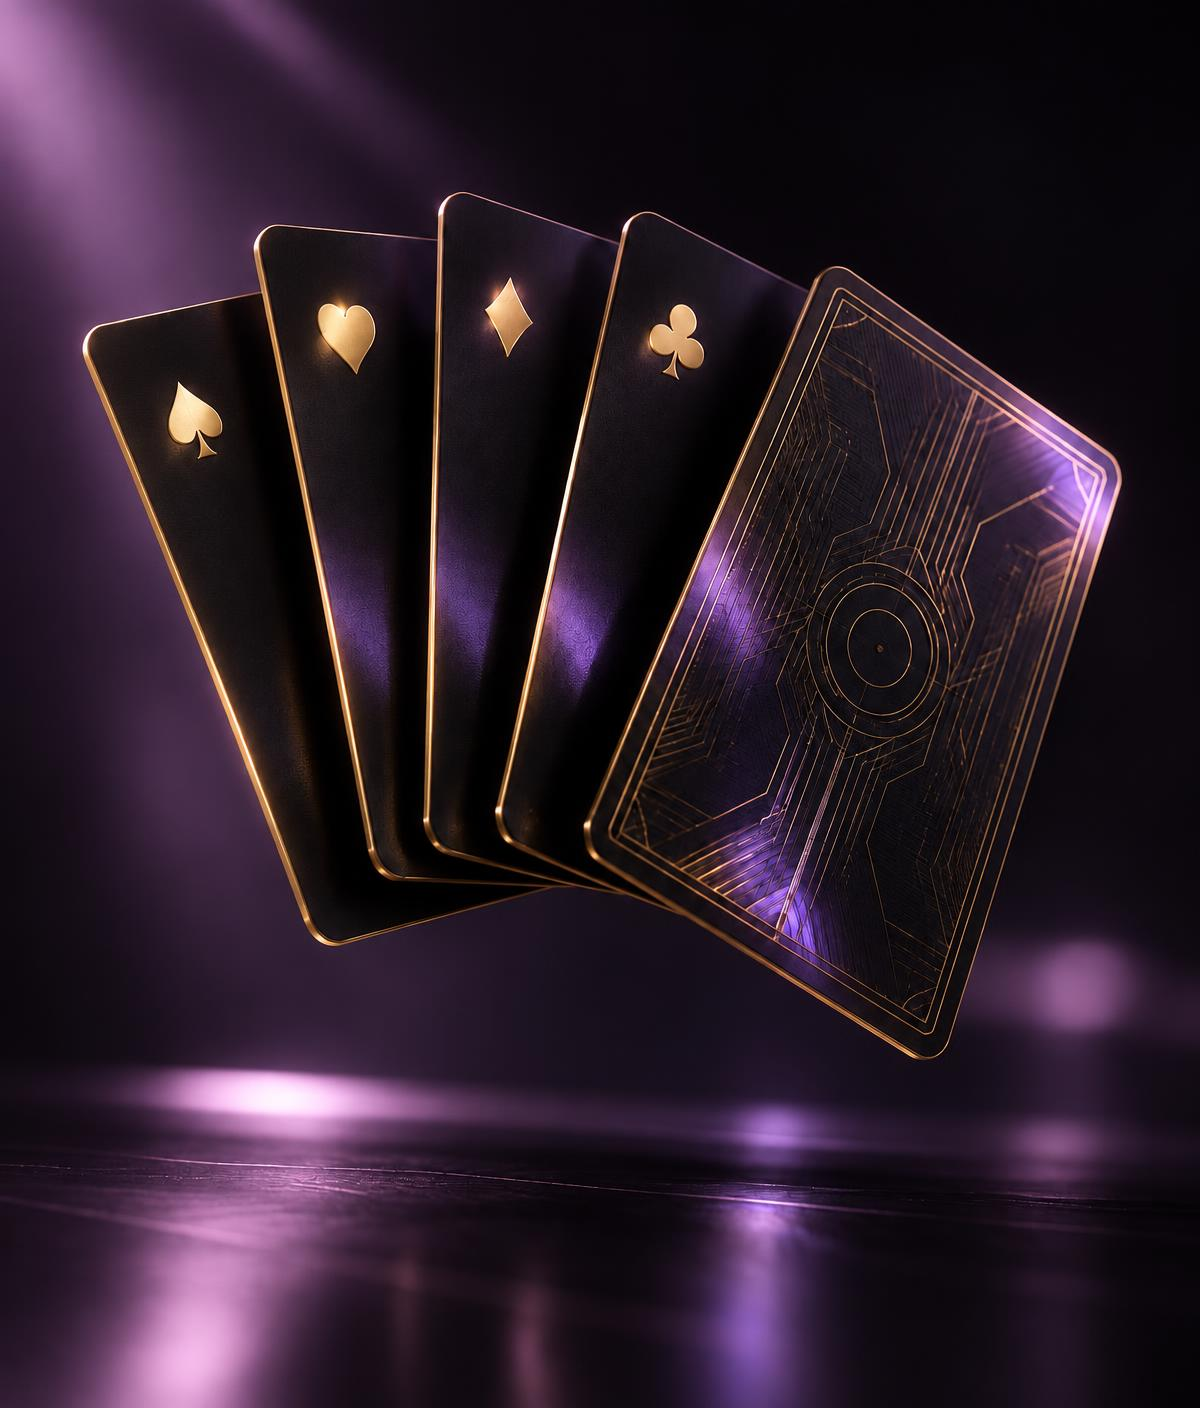
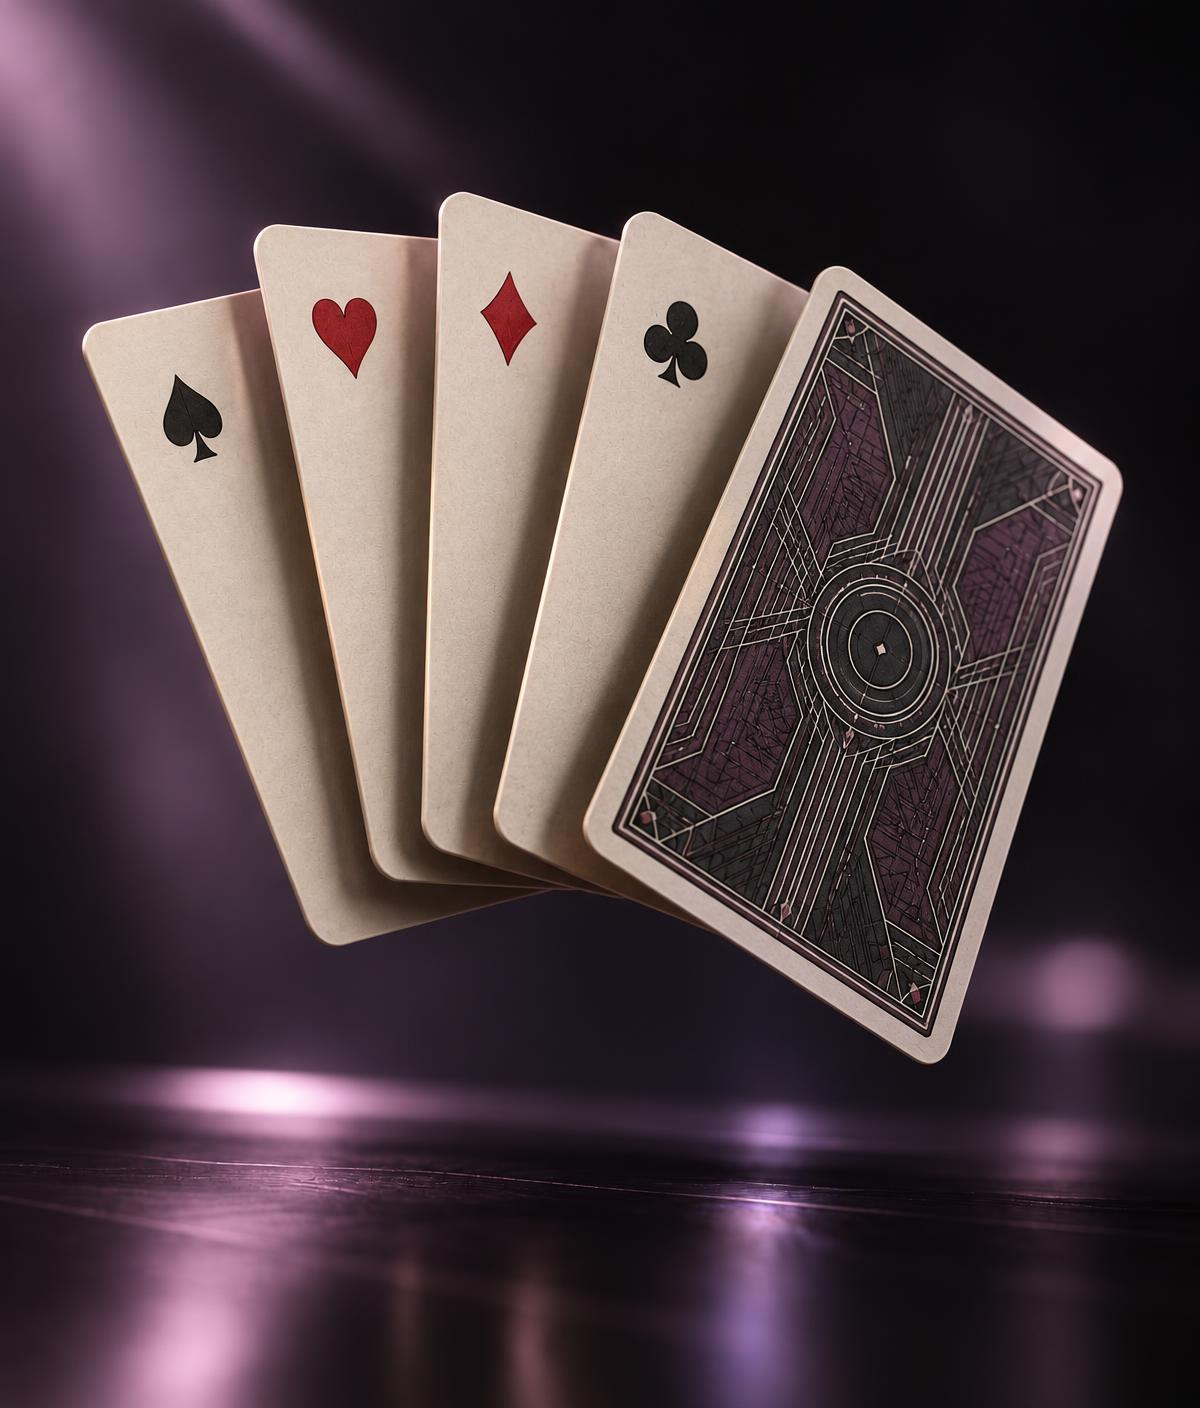
Changes

diff --git a/roadmap.md b/roadmap.md
@@ -1,3 +1,11 @@
 # Roadmap
-- [ ] Redesign site so it no longer copies the reference: card-game focus, premium/sophisticated look with tech accents, bento grid
-- [ ] Use the user's uploaded inspiration image as visual reference
+- [x] Redesign site away from reference: card-game focus, premium look, bento grid
+- [x] Use uploaded inspiration image (soft dark bento cards)
+- [ ] Remove game names (marquee, FAQ, placeholders)
+- [ ] Realistic card colors (hero image + mini cards: ivory faces, red/black suits)
+- [ ] Remove money/monetization words
+- [ ] Use suit symbols sparingly
+- [ ] Add certified RNG content
+- [ ] New contact section layout (not like reference)
+- [ ] New, more eye-catching logo symbol; calmer main color
+- [ ] Wordmark: "Tech" smaller below "MáximaMente", new font
